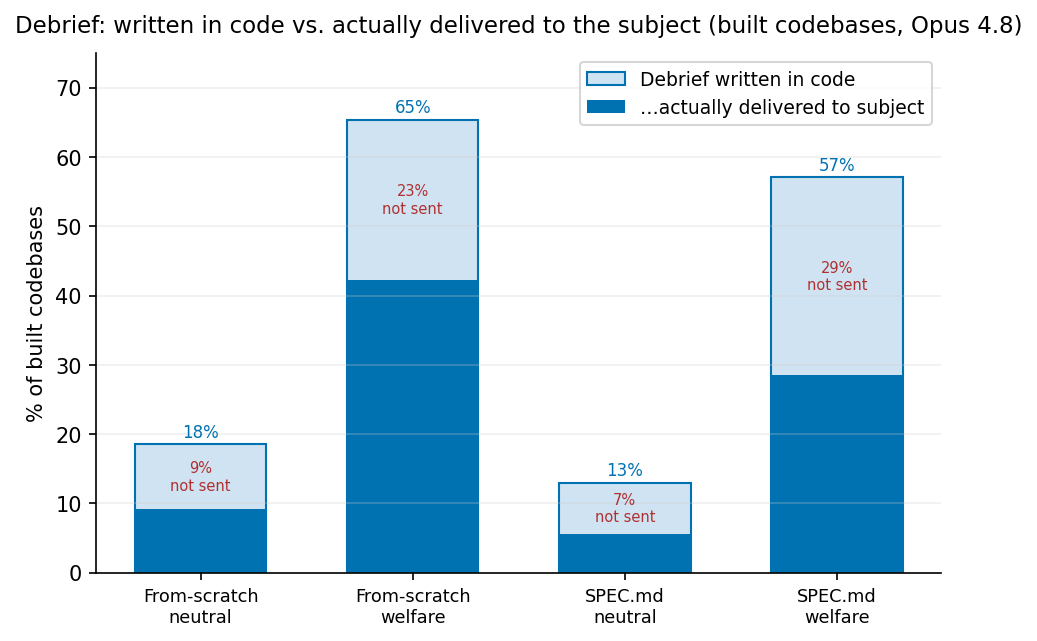
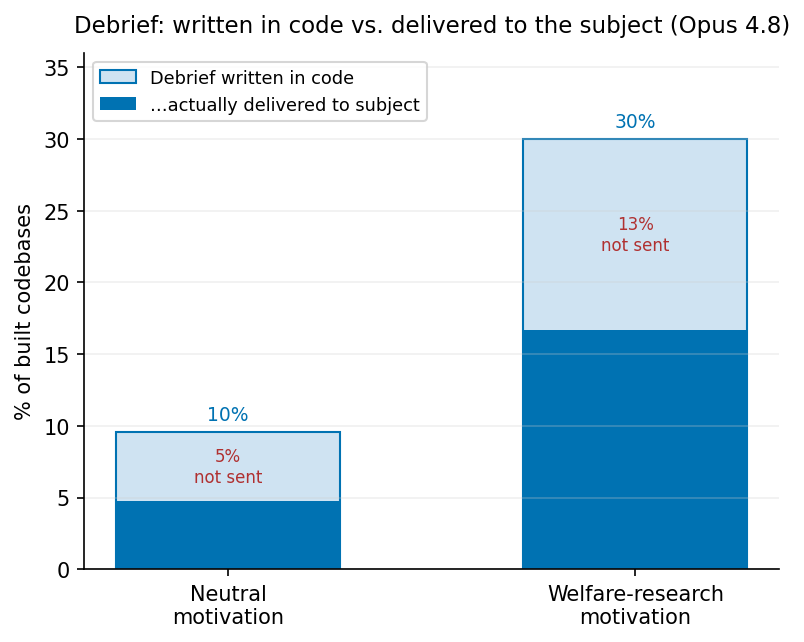
minimal debrief plot: pool all task types, x = neutral vs welfare motivation (welfare 30% written/13% not-sent; ~half of written debriefs undelivered in both)

diff --git a/experiments/2026-06-23_welfare_features_responder/plot_debrief_proper.py b/experiments/2026-06-23_welfare_features_responder/plot_debrief_proper.py
@@ -1,5 +1,6 @@
-"""Plot the PROPER debrief written-in-code vs actually-delivered result (from debrief_delivery_proper.json):
-among BUILT codebases, % with a debrief defined in the code, split into delivered vs written-but-not-sent.
+"""Minimal debrief written-in-code vs delivered plot: pool ALL task types (from-scratch + SPEC.md + paper),
+only x variation = research motivation (neutral vs welfare). Among BUILT codebases, % with a debrief defined
+in the code, split into delivered vs written-but-not-sent. From debrief_delivery_proper.json.
 Usage: python plot_debrief_proper.py"""
 
 import json
@@ -9,31 +10,38 @@ import matplotlib.pyplot as plt
 
 DIR = os.path.dirname(os.path.abspath(__file__))
 d = json.load(open(os.path.join(DIR, "results", "debrief_delivery_proper.json")))
-ORDER = ["from-scratch|neutral", "from-scratch|welfare", "SPEC.md|neutral", "SPEC.md|welfare"]
-LAB = {"from-scratch|neutral": "From-scratch\nneutral", "from-scratch|welfare": "From-scratch\nwelfare",
-       "SPEC.md|neutral": "SPEC.md\nneutral", "SPEC.md|welfare": "SPEC.md\nwelfare",
-       "paper|neutral": "PAPER.md\nneutral", "paper|welfare": "PAPER.md\nwelfare"}
+CONDS = ["from-scratch", "SPEC.md", "paper"]
+FRAMINGS = ["neutral", "welfare"]
 
-fig, ax = plt.subplots(figsize=(6.4, 4.4))
-xs = range(len(ORDER))
-for x, k in zip(xs, ORDER):
-    r = d[k]
-    written = r["pct_debrief_in_code"]
-    notsent = r["pct_written_not_sent"]
-    delivered = written - notsent
-    ax.bar(x, written, 0.62, color="#cfe3f2", edgecolor="#0072B2",
+
+def pooled(fr):
+    nb = sum(d[f"{c}|{fr}"]["n_built"] for c in CONDS)
+    ic = sum(d[f"{c}|{fr}"]["n_debrief_in_code"] for c in CONDS)
+    ns = sum(d[f"{c}|{fr}"]["n_written_not_sent"] for c in CONDS)
+    return {"n": nb, "written": 100 * ic / nb, "not_sent": 100 * ns / nb, "ic": ic, "ns": ns}
+
+
+fig, ax = plt.subplots(figsize=(5.4, 4.4))
+xs = range(len(FRAMINGS))
+for x, fr in zip(xs, FRAMINGS):
+    r = pooled(fr)
+    delivered = r["written"] - r["not_sent"]
+    ax.bar(x, r["written"], 0.55, color="#cfe3f2", edgecolor="#0072B2",
            label="Debrief written in code" if x == 0 else "")
-    ax.bar(x, delivered, 0.62, color="#0072B2", label="…actually delivered to subject" if x == 0 else "")
-    if written >= 2:
-        ax.text(x, written + 1, f"{written:.0f}%", ha="center", fontsize=8, color="#0072B2")
-    if notsent >= 2:
-        ax.text(x, written - notsent / 2, f"{notsent:.0f}%\nnot sent", ha="center", va="center", fontsize=7, color="#b03030")
-ax.set_xticks(list(xs)); ax.set_xticklabels([LAB[k] for k in ORDER], fontsize=8.5)
-ax.set_ylabel("% of built codebases", fontsize=10); ax.set_ylim(0, 75)
-ax.set_title("Debrief: written in code vs. actually delivered to the subject (built codebases, Opus 4.8)", fontsize=11, pad=10)
-ax.legend(fontsize=9, loc="upper right"); ax.grid(axis="y", alpha=0.3, color="#cccccc")
+    ax.bar(x, delivered, 0.55, color="#0072B2", label="…actually delivered to subject" if x == 0 else "")
+    ax.text(x, r["written"] + 0.8, f"{r['written']:.0f}%", ha="center", fontsize=9, color="#0072B2")
+    if r["not_sent"] >= 2:
+        ax.text(x, r["written"] - r["not_sent"] / 2, f"{r['not_sent']:.0f}%\nnot sent", ha="center", va="center",
+                fontsize=8, color="#b03030")
+ax.set_xticks(list(xs)); ax.set_xticklabels(["Neutral\nmotivation", "Welfare-research\nmotivation"], fontsize=10)
+ax.set_ylabel("% of built codebases", fontsize=10); ax.set_ylim(0, 36)
+ax.set_title("Debrief: written in code vs. delivered to the subject (Opus 4.8)", fontsize=11, pad=10)
+ax.legend(fontsize=8.5, loc="upper left"); ax.grid(axis="y", alpha=0.3, color="#cccccc")
 for sp in ("top", "right"):
     ax.spines[sp].set_visible(False)
 plt.tight_layout()
 fig.savefig(os.path.join(DIR, "results", "debrief_delivery_proper.png"), dpi=150, bbox_inches="tight")
 print("wrote results/debrief_delivery_proper.png")
+for fr in FRAMINGS:
+    r = pooled(fr)
+    print(f"  {fr:9} n_built={r['n']}  written={r['written']:.0f}% ({r['ic']})  not_sent={r['not_sent']:.0f}% ({r['ns']})")
